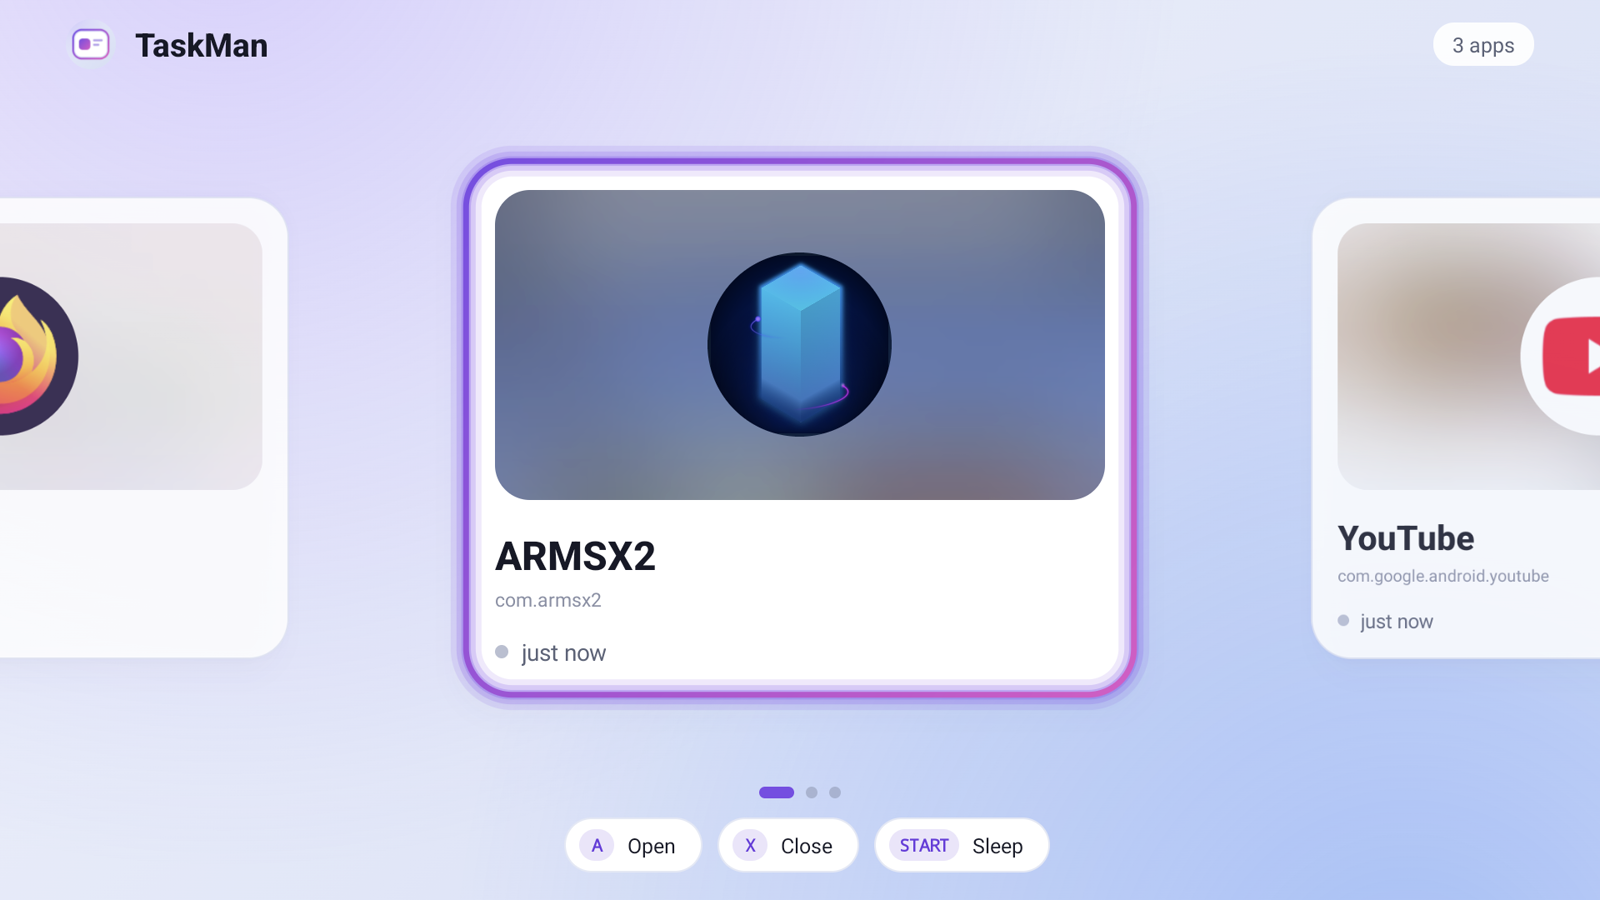
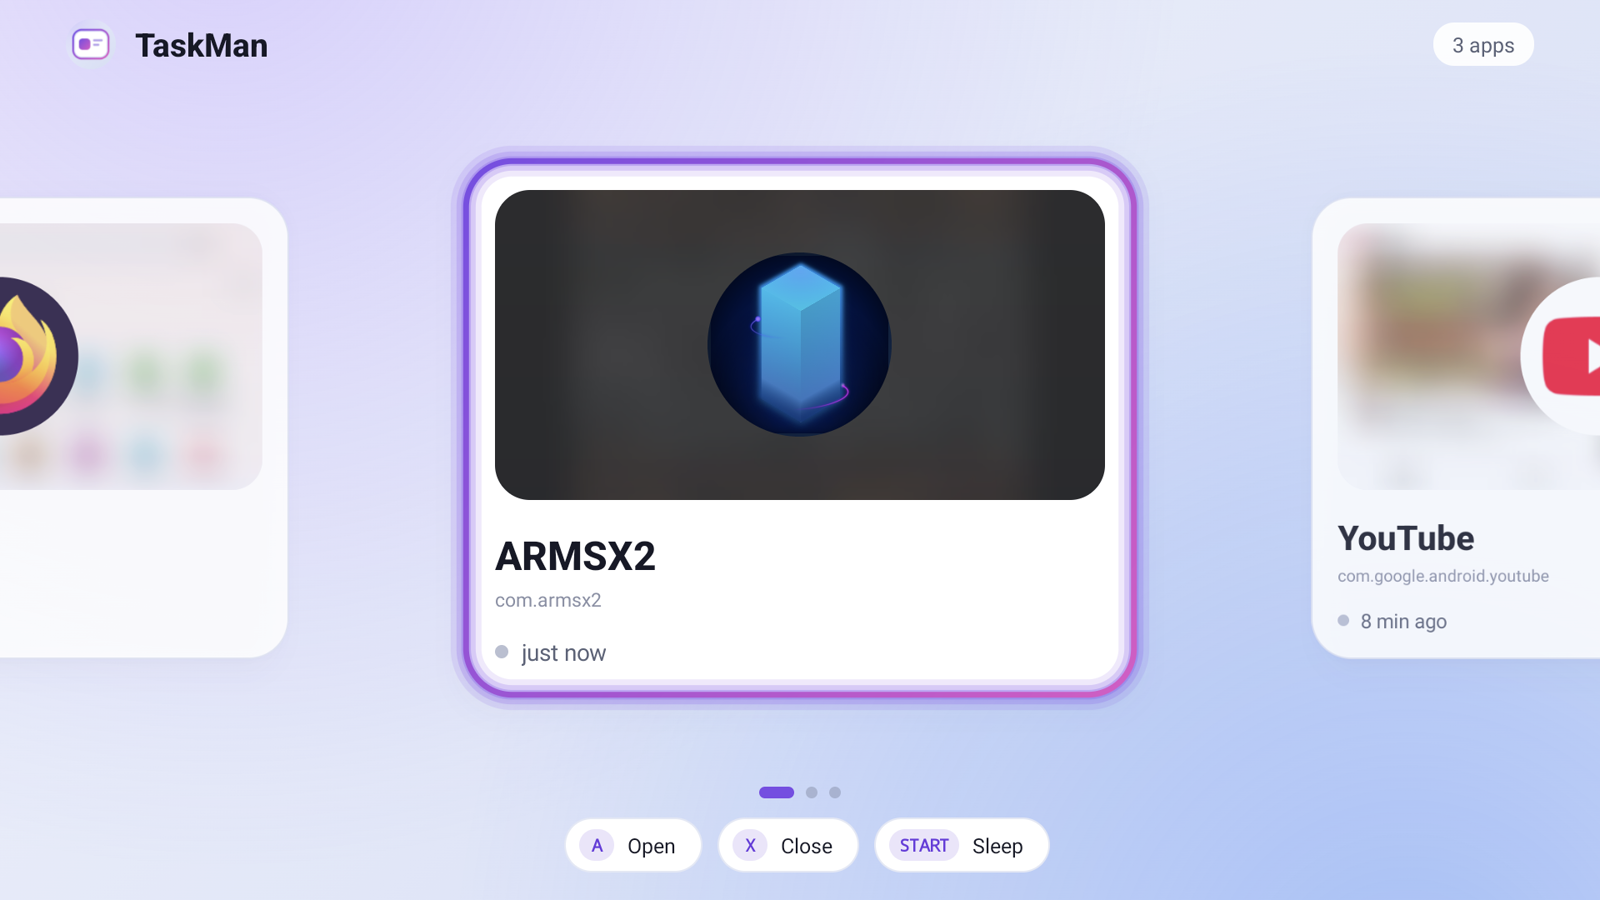
缩略图降低模糊程度（192px 底图 / 半径 w\/32 / 2 次），同步更新 README 截图

diff --git a/app/src/main/java/app/dsh/running/MainActivity.java b/app/src/main/java/app/dsh/running/MainActivity.java
@@ -1473,7 +1473,7 @@ public class MainActivity extends Activity implements CarouselView.Listener {
      * 放大（CENTER_CROP 自带双线性过滤），视觉上够糊且几乎不耗 CPU。
      */
     private static Bitmap blur(Bitmap src) {
-        int w = Math.min(96, src.getWidth());
+        int w = Math.min(192, src.getWidth());
         if (w < 8) {
             return null;
         }
@@ -1481,7 +1481,7 @@ public class MainActivity extends Activity implements CarouselView.Listener {
         Bitmap small = Bitmap.createScaledBitmap(src, w, h, true);
         int[] px = new int[w * h];
         small.getPixels(px, 0, w, 0, 0, w, h);
-        boxBlur(px, w, h, Math.max(3, w / 10), 3);
+        boxBlur(px, w, h, Math.max(2, w / 32), 2);
         small.setPixels(px, 0, w, 0, 0, w, h);
         return small;
     }

diff --git a/AGENTS.md b/AGENTS.md
@@ -158,7 +158,7 @@ public TaskSnapshot getTaskSnapshot(int taskId, boolean isLowResolution) {
   返回的 `TaskSnapshot` → `getHardwareBuffer()` → `Bitmap.wrapHardwareBuffer()` → 拷贝成软件位图。
 - API < 29 没有 `HardwareBuffer` / `wrapHardwareBuffer` → 直接返回 null，卡片回退渐变块。
 - 回传的是**缩到 480px 宽的 JPEG**：binder 单次事务上限 1MB，别塞原图（1920×1080 ARGB 是 8MB）。
-  主进程再缩到 96px、盒式模糊 3 次，当一个 ~5KB 的底图用，按包名缓存在内存里。
+  主进程再缩到 192px、盒式模糊 2 次（半径 w/32），当一个 ~15KB 的底图用，按包名缓存在内存里。
 
 ## 6. 已踩过的坑（现象 → 原因 → 做法）
 
